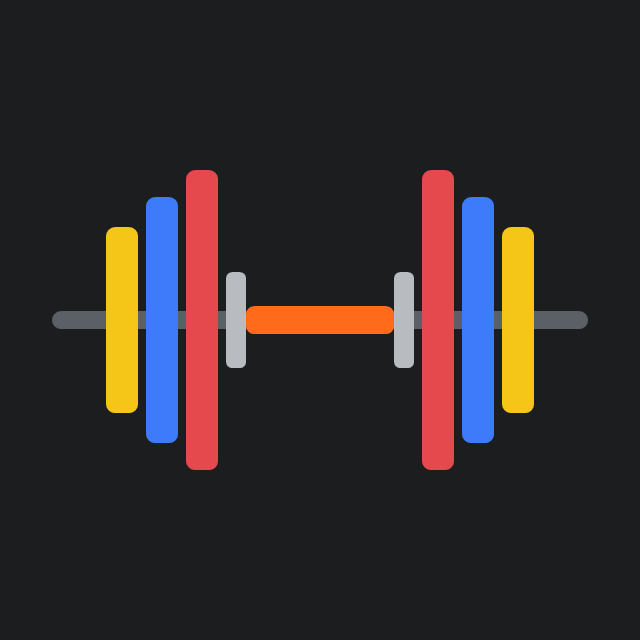
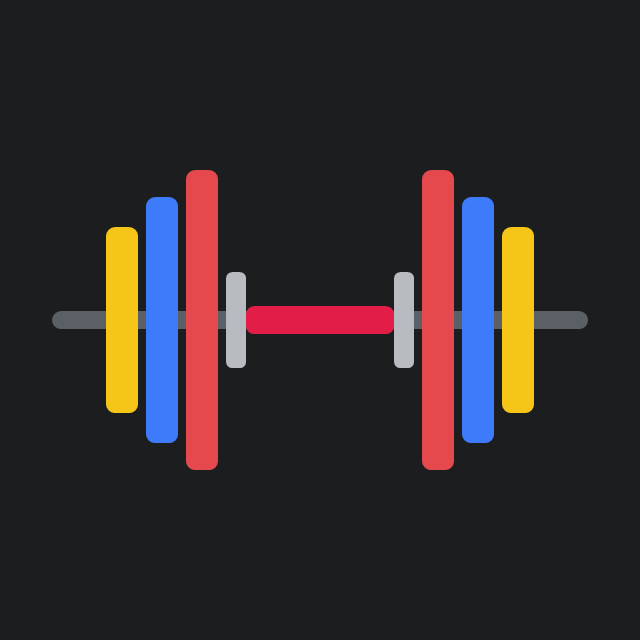
Рубиновый красный и «жидкое стекло»
Акцент сменён с оранжевого на рубиновый красный (#E11D48, белый текст на кнопках).
Опасные действия теперь полупрозрачные красные, чтобы не путаться с главными кнопками.
Нижнее меню — плавающая стеклянная капсула со стеклянной «линзой» у выбранной вкладки;
таймер отдыха, плашка «Продолжить», меню снизу и окна подтверждения — стекло
с размытием, бликом и тонкой кромкой. Иконки перекрашены. Первый экран
по-прежнему помещается без прокрутки на всех проверенных размерах.

Changed region(s): [[0.375, 0.4688, 0.625, 0.5312]]

diff --git a/src/styles.css b/src/styles.css
@@ -1,7 +1,8 @@
 /* =====================================================================
    Дизайн-система «Зал»
-   Фон — графит резинового пола, текст — мел, акцент — сигнальный оранжевый
-   (как замки на грифе). Группы мышц окрашены как соревновательные блины.
+   Фон — графит резинового пола, текст — мел, акцент — рубиновый красный.
+   Группы мышц окрашены как соревновательные блины. Парящие элементы
+   (нижнее меню, таймер, меню снизу, окна) — «жидкое стекло» в духе iOS 26.
    В Telegram фон/текст/подсказки подменяются цветами темы пользователя.
    ===================================================================== */
 :root {
@@ -12,10 +13,19 @@
   --hint: #8e9196;
   --line: rgba(236, 234, 228, 0.08);
 
-  --accent: #ff6b1a;
-  --accent-text: #1a0c03;
-  --accent-ink: #ff8a47;
-  --danger: #ff5c5c;
+  --accent: #e11d48; /* рубиновый красный */
+  --accent-text: #ffffff; /* текст на красной кнопке (контраст 4,7:1) */
+  --accent-ink: #ff4d6d; /* красный для текста и иконок на тёмном фоне (контраст 5,3:1) */
+  --accent-soft: rgba(225, 29, 72, 0.16);
+  --danger: #ff6b6b;
+
+  /* «Жидкое стекло»: полупрозрачная подложка + размытие + блик сверху + тонкая кромка */
+  --glass-bg: rgba(40, 42, 47, 0.58);
+  --glass-edge: rgba(255, 255, 255, 0.14);
+  --glass-shine: rgba(255, 255, 255, 0.22);
+  --glass-sheen: linear-gradient(180deg, rgba(255, 255, 255, 0.09), rgba(255, 255, 255, 0) 55%);
+  --glass-blur: blur(24px) saturate(185%);
+  --glass-shadow: 0 12px 32px rgba(0, 0, 0, 0.38);
 
   /* Цвета групп мышц — «блины» */
   --mg-chest: #e5484d;
@@ -56,7 +66,12 @@
   --text: #1c1d1f;
   --hint: #6c6f75;
   --line: rgba(28, 29, 31, 0.09);
-  --accent-ink: #c2410c;
+  --accent-ink: #be123c;
+  --glass-bg: rgba(255, 255, 255, 0.62);
+  --glass-edge: rgba(0, 0, 0, 0.08);
+  --glass-shine: rgba(255, 255, 255, 0.9);
+  --glass-sheen: linear-gradient(180deg, rgba(255, 255, 255, 0.5), rgba(255, 255, 255, 0) 60%);
+  --glass-shadow: 0 12px 32px rgba(0, 0, 0, 0.12);
   --mg-biceps: #c9ccd1;
   color-scheme: light;
 }
@@ -105,7 +120,7 @@ select {
 
 /* Части, которые рисует браузер, тоже в цветах приложения */
 ::selection {
-  background: rgba(255, 107, 26, 0.4); /* запасной цвет для старых браузеров */
+  background: rgba(225, 29, 72, 0.4); /* запасной цвет для старых браузеров */
   background: color-mix(in srgb, var(--accent) 40%, transparent);
   color: var(--text);
 }
@@ -276,7 +291,7 @@ input[type='date']::-webkit-calendar-picker-indicator {
 }
 
 .app-content {
-  padding-bottom: calc(var(--tabbar-h) + var(--safe-bottom) + 8px);
+  padding-bottom: calc(var(--tabbar-h) + var(--safe-bottom) + 18px);
 }
 
 /* На вкладках место под нижним меню уже оставлено — свой нижний отступ экрану не нужен */
@@ -374,14 +389,15 @@ input[type='date']::-webkit-calendar-picker-indicator {
 /* ===== Нижняя навигация ===== */
 .tabbar {
   position: fixed;
-  left: 0;
-  right: 0;
-  bottom: 0;
+  left: 12px;
+  right: 12px;
+  bottom: calc(var(--safe-bottom) + 8px);
+  max-width: 480px;
+  margin: 0 auto;
   display: flex;
-  height: calc(var(--tabbar-h) + var(--safe-bottom));
-  padding-bottom: var(--safe-bottom);
-  background: var(--card);
-  border-top: 1px solid var(--line);
+  height: var(--tabbar-h);
+  padding: 5px;
+  border-radius: 999px;
   z-index: 10;
 }
 
@@ -398,21 +414,21 @@ input[type='date']::-webkit-calendar-picker-indicator {
   color: var(--hint);
 }
 
-/* Активная вкладка: оранжевая «замок-полоска» сверху */
-.tabbar-item.active {
-  color: var(--accent-ink);
+/* Активная вкладка: стеклянная «линза» под иконкой и красный цвет */
+.tabbar-item {
+  border-radius: 999px;
 }
 
-.tabbar-item.active::before {
-  content: '';
-  position: absolute;
-  top: -1px;
-  left: 50%;
-  width: 28px;
-  height: 3px;
-  margin-left: -14px;
-  border-radius: 0 0 3px 3px;
-  background: var(--accent);
+.tabbar-item.active {
+  color: var(--accent-ink);
+  background: rgba(255, 255, 255, 0.1);
+  box-shadow:
+    inset 0 1px 0 rgba(255, 255, 255, 0.16),
+    inset 0 0 0 1px rgba(255, 255, 255, 0.06);
+}
+
+:root[data-scheme='light'] .tabbar-item.active {
+  background: rgba(0, 0, 0, 0.05);
 }
 
 /* ===== Списки ===== */
@@ -471,7 +487,7 @@ input[type='date']::-webkit-calendar-picker-indicator {
 }
 
 .list-row-btn.selected {
-  background: rgba(255, 107, 26, 0.13); /* запасной цвет для старых браузеров */
+  background: rgba(225, 29, 72, 0.13); /* запасной цвет для старых браузеров */
   background: color-mix(in srgb, var(--accent) 13%, var(--card));
 }
 
@@ -1234,8 +1250,8 @@ input[type='date']::-webkit-calendar-picker-indicator {
 }
 
 .set-row.done {
-  background: rgba(255, 107, 26, 0.16); /* запасной цвет для старых браузеров */
-  background: color-mix(in srgb, var(--accent) 16%, var(--card));
+  background: rgba(225, 29, 72, 0.12); /* запасной цвет для старых браузеров */
+  background: color-mix(in srgb, var(--accent) 12%, var(--card));
 }
 
 .set-num {
@@ -1482,7 +1498,7 @@ input[type='date']::-webkit-calendar-picker-indicator {
   position: fixed;
   left: 12px;
   right: 12px;
-  bottom: calc(var(--tabbar-h) + var(--safe-bottom) + 10px);
+  bottom: calc(var(--tabbar-h) + var(--safe-bottom) + 18px);
   max-width: 616px;
   margin: 0 auto;
   display: flex;
@@ -1783,8 +1799,10 @@ input[type='date']::-webkit-calendar-picker-indicator {
 }
 
 .btn-danger-solid {
-  background: var(--danger);
-  color: #fff;
+  background: rgba(255, 107, 107, 0.16); /* запасной цвет для старых браузеров */
+  background: color-mix(in srgb, var(--danger) 16%, transparent);
+  color: var(--danger);
+  box-shadow: inset 0 0 0 1px rgba(255, 107, 107, 0.35);
 }
 
 /* Уход быстрее появления; уходящее окно уже не перехватывает нажатия */
@@ -2206,6 +2224,18 @@ input[type='date']::-webkit-calendar-picker-indicator {
 
 /* Невысокие экраны (iPhone SE, маленькие Android): ещё компактнее, чтобы пустой день помещался без прокрутки */
 @media (max-height: 700px) {
+  :root {
+    --tabbar-h: 56px;
+  }
+
+  .app-content {
+    padding-bottom: calc(var(--tabbar-h) + var(--safe-bottom) + 10px);
+  }
+
+  .tabbar {
+    bottom: calc(var(--safe-bottom) + 6px);
+  }
+
   .screen {
     padding-top: 4px;
   }
@@ -2658,4 +2688,101 @@ input[type='date']::-webkit-calendar-picker-indicator {
   width: 22px;
   color: var(--hint);
   font-size: 14px;
+}
+
+/* =====================================================================
+   «Жидкое стекло» (в духе iOS 26) — только на парящих элементах:
+   нижнее меню, таймер отдыха, плашка «Продолжить», меню снизу, окна.
+   Полупрозрачная подложка + размытие того, что под ней, блик по верхней кромке
+   и тонкий светлый контур. Карточки с данными остаются плотными — так цифры
+   читаются лучше.
+   ===================================================================== */
+.tabbar,
+.rest-bar,
+.active-banner,
+.sheet,
+.dialog {
+  background: var(--glass-sheen), var(--glass-bg);
+  -webkit-backdrop-filter: var(--glass-blur);
+  backdrop-filter: var(--glass-blur);
+  box-shadow:
+    inset 0 1px 0 var(--glass-shine),
+    inset 0 0 0 1px var(--glass-edge),
+    var(--glass-shadow);
+}
+
+/* Там, где размытие не поддерживается, стекло становится плотным — текст не теряется на фоне */
+@supports not ((-webkit-backdrop-filter: blur(1px)) or (backdrop-filter: blur(1px))) {
+  .tabbar,
+  .rest-bar,
+  .active-banner,
+  .sheet,
+  .dialog {
+    background: var(--glass-sheen), var(--card);
+  }
+}
+
+/* Таймер отдыха: стекло, сквозь которое «наливается» красная полоса оставшегося времени */
+.rest-bar {
+  color: var(--text);
+}
+
+.rest-progress {
+  background: linear-gradient(90deg, rgba(225, 29, 72, 0.55), rgba(225, 29, 72, 0.35));
+}
+
+.rest-btn {
+  background: rgba(255, 255, 255, 0.1);
+  box-shadow: inset 0 1px 0 rgba(255, 255, 255, 0.12);
+}
+
+.rest-bar-done {
+  background: var(--accent);
+  color: var(--accent-text);
+  -webkit-backdrop-filter: none;
+  backdrop-filter: none;
+}
+
+/* Плашка «идёт тренировка»: стекло, красная точка и красная кнопка «Продолжить» */
+.active-banner {
+  color: var(--text);
+}
+
+.active-banner-dot {
+  background: var(--accent-ink);
+}
+
+.active-banner-time {
+  color: var(--hint);
+}
+
+.active-banner-cta {
+  background: var(--accent);
+  color: var(--accent-text);
+}
+
+/* Меню снизу и окна: кнопки — светлое стекло поверх стекла */
+.sheet-action {
+  background: rgba(255, 255, 255, 0.08);
+  box-shadow: inset 0 1px 0 rgba(255, 255, 255, 0.06);
+}
+
+.sheet-action.selected {
+  background: var(--accent);
+  color: var(--accent-text);
+}
+
+.sheet-cancel {
+  background: transparent;
+  box-shadow: none;
+}
+
+.dialog .btn-secondary {
+  background: rgba(255, 255, 255, 0.1);
+}
+
+:root[data-scheme='light'] .sheet-action,
+:root[data-scheme='light'] .rest-btn,
+:root[data-scheme='light'] .dialog .btn-secondary {
+  background: rgba(0, 0, 0, 0.05);
 }

diff --git a/preview.html b/preview.html
@@ -223,13 +223,13 @@
       }
 
       .island-label {
-        color: #ff8a47;
+        color: #ff4d6d;
         font-size: 13px;
         font-weight: 600;
       }
 
       .island-time {
-        color: #ff8a47;
+        color: #ff4d6d;
         font-size: 15px;
         font-weight: 600;
         font-variant-numeric: tabular-nums;
@@ -378,8 +378,8 @@
               <div class="island" id="island">
                 <span class="island-leading">
                   <svg class="island-ring" viewBox="0 0 20 20" aria-hidden="true">
-                    <circle cx="10" cy="10" r="8" stroke="rgba(255,138,71,.25)" />
-                    <circle id="island-ring-fill" cx="10" cy="10" r="8" stroke="#ff8a47" stroke-linecap="round" stroke-dasharray="50.27" stroke-dashoffset="0" />
+                    <circle cx="10" cy="10" r="8" stroke="rgba(255,77,109,.25)" />
+                    <circle id="island-ring-fill" cx="10" cy="10" r="8" stroke="#ff4d6d" stroke-linecap="round" stroke-dasharray="50.27" stroke-dashoffset="0" />
                   </svg>
                   <span class="island-label">Отдых</span>
                 </span>

diff --git a/src/components/MainButton.tsx b/src/components/MainButton.tsx
@@ -26,8 +26,8 @@ export function MainButton({
     const handler = () => clickRef.current();
     mb.setParams({
       text,
-      color: '#ff6b1a',
-      text_color: '#1a0c03',
+      color: '#e11d48',
+      text_color: '#ffffff',
       is_active: !disabled,
       is_visible: true,
     });
